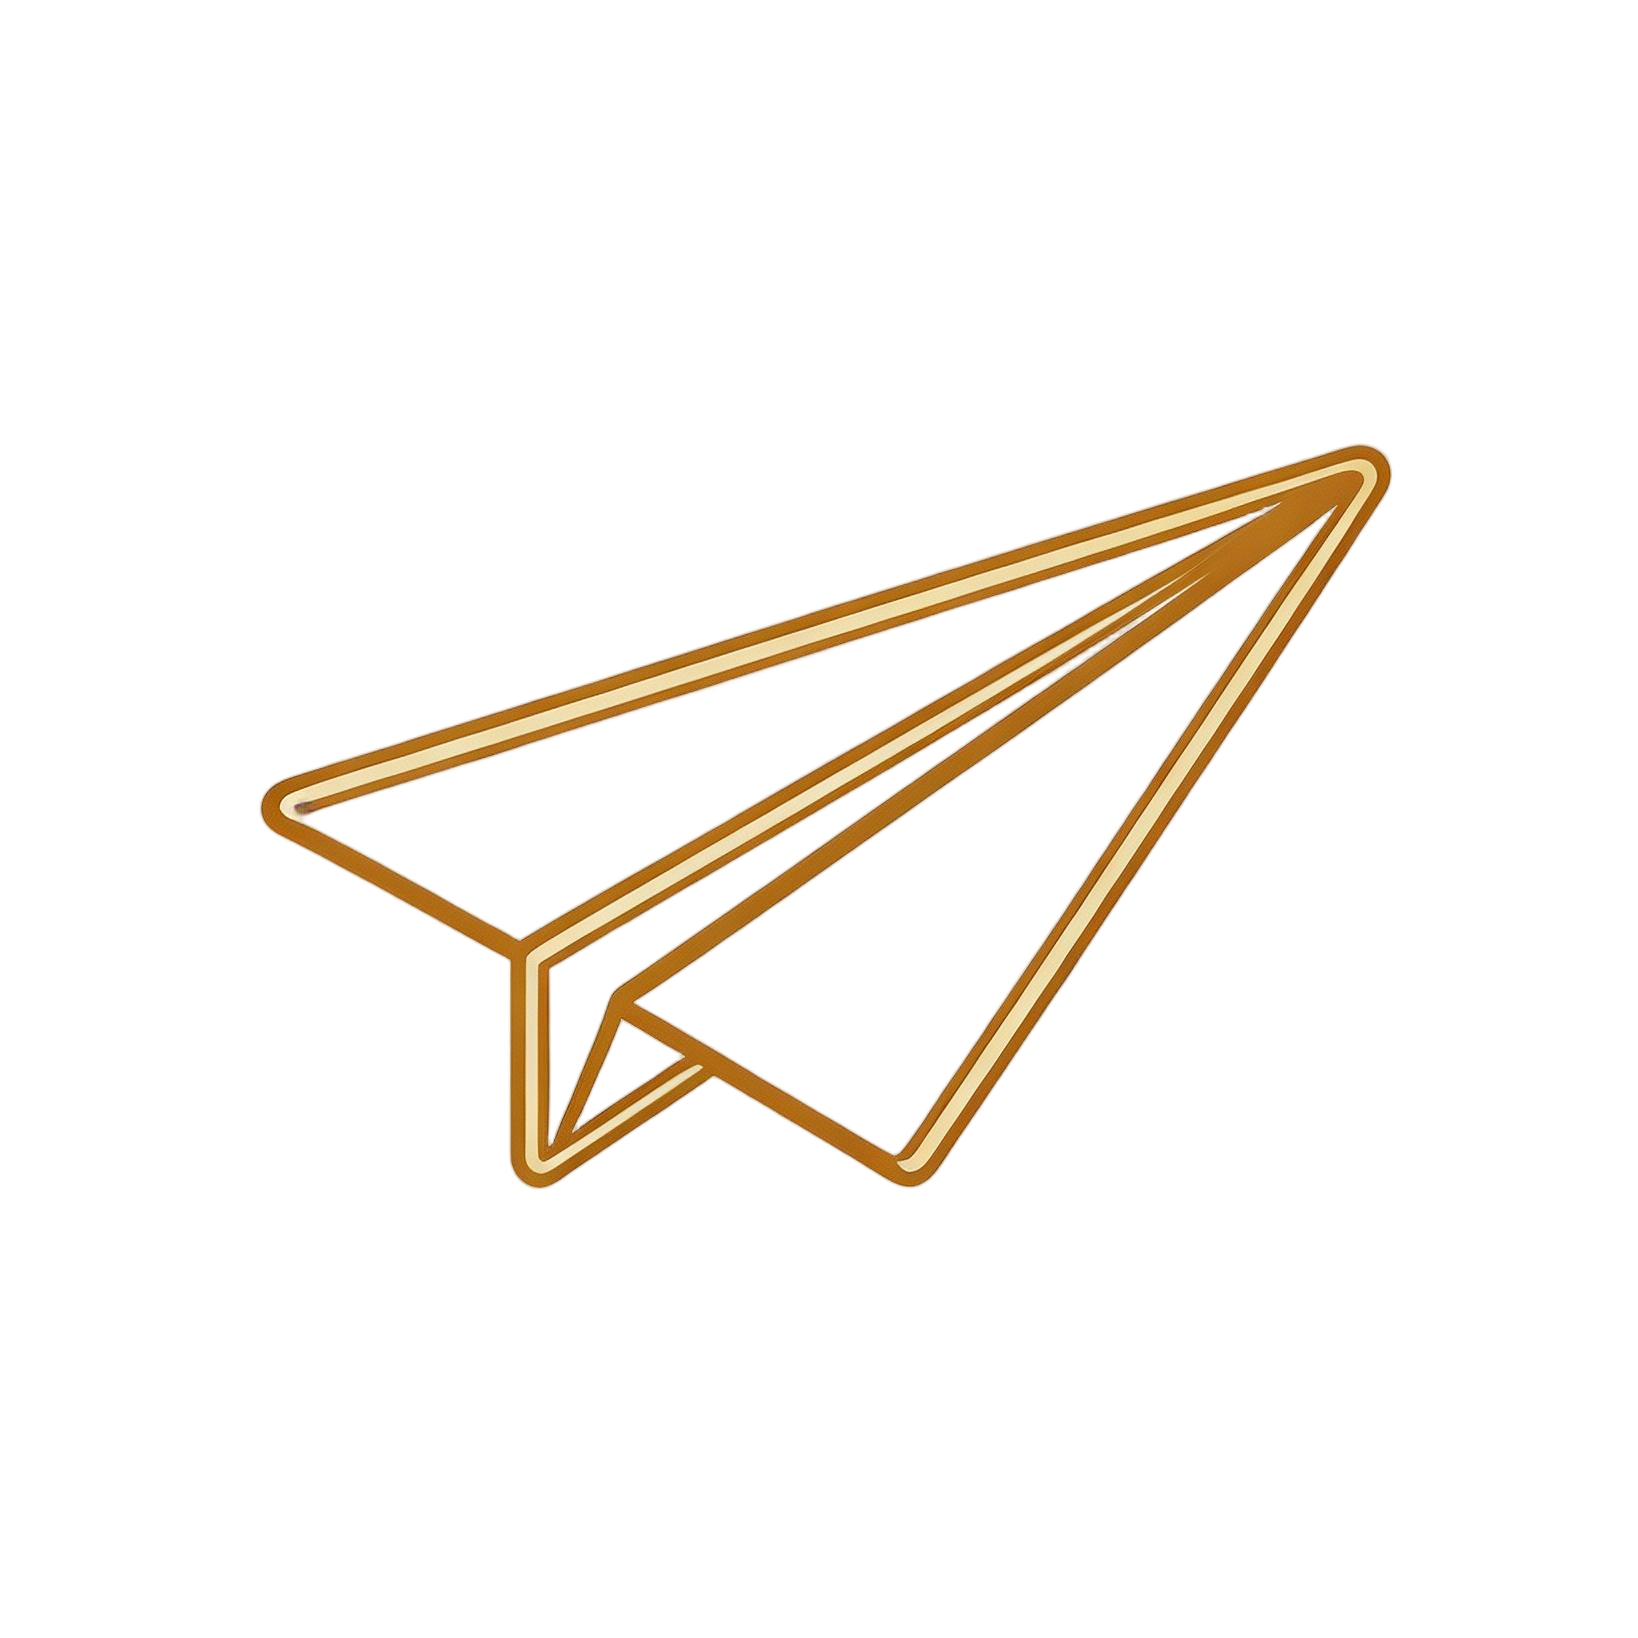
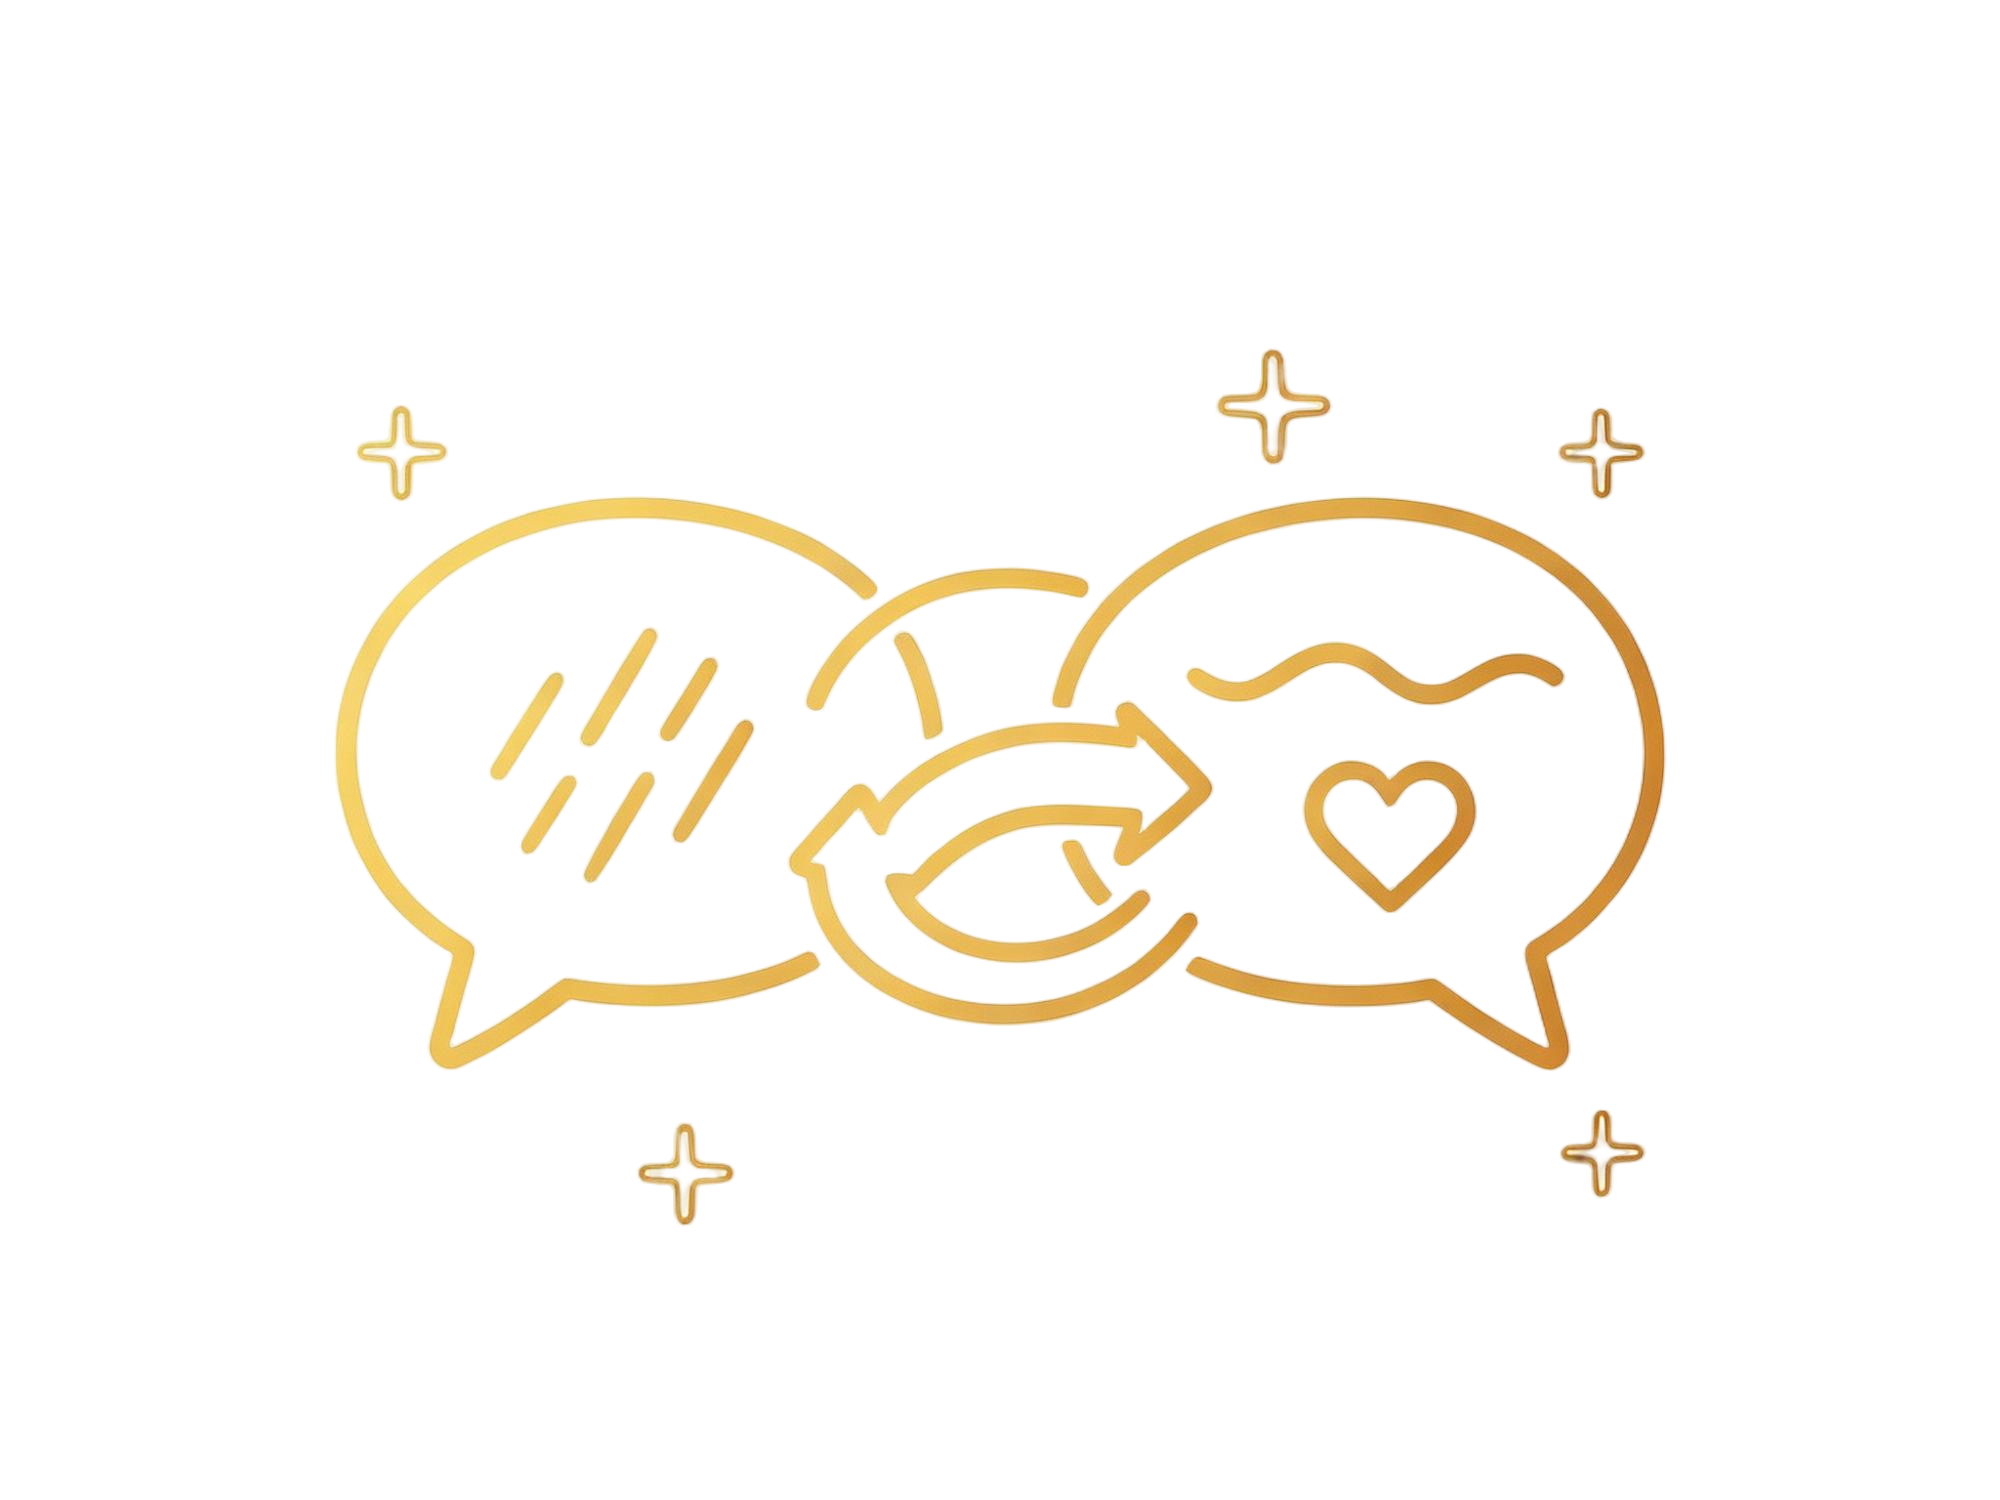
新图标全覆盖+6格去阴影+关系花园暖底区分+手机号注册+登录花园图标

diff --git a/src/style.css b/src/style.css
@@ -300,7 +300,7 @@ textarea:focus{outline:none;border-color:var(--gold);background:#fff;box-shadow:
 
 /* 收获卡片网格 */
 .benefit-grid{display:grid;grid-template-columns:1fr 1fr;gap:14px}
-.benefit-card{background:rgba(255,250,242,.65);backdrop-filter:blur(8px);-webkit-backdrop-filter:blur(8px);border-radius:22px;padding:22px 18px;text-align:left;border:1px solid rgba(255,255,255,.5);box-shadow:0 12px 40px rgba(180,120,60,.1);animation:cardFloat 5s ease-in-out infinite}
+.benefit-card{background:rgba(255,250,242,.65);backdrop-filter:blur(8px);-webkit-backdrop-filter:blur(8px);border-radius:22px;padding:22px 18px;text-align:left;border:1px solid rgba(255,255,255,.5);animation:cardFloat 5s ease-in-out infinite}
 .benefit-card:nth-child(1){animation-delay:0s}
 .benefit-card:nth-child(2){animation-delay:.8s}
 .benefit-card:nth-child(3){animation-delay:1.6s}
@@ -312,7 +312,7 @@ textarea:focus{outline:none;border-color:var(--gold);background:#fff;box-shadow:
 @keyframes cardFloat{0%,100%{transform:translateY(0)}50%{transform:translateY(-6px)}}
 
 /* 成长轨迹卡片 */
-.growth-card{background:rgba(255,250,242,.65);backdrop-filter:blur(8px);-webkit-backdrop-filter:blur(8px);border-radius:14px;padding:24px;text-align:left;border:1px solid rgba(255,255,255,.5);box-shadow:0 12px 40px rgba(180,120,60,.1)}
+.growth-card{background:rgba(255,245,235,.7);border-radius:18px;padding:24px;text-align:left;border:1px solid rgba(200,160,120,.15)}
 .growth-card>p{font-size:14px;color:#5C4535;line-height:1.75;margin-bottom:18px}
 .growth-card>p strong{color:#8B5E3C;font-weight:500}
 .growth-features{display:flex;flex-direction:column;gap:12px}
@@ -342,6 +342,9 @@ textarea:focus{outline:none;border-color:var(--gold);background:#fff;box-shadow:
 .form-field label{display:block;font-size:13px;color:#8B6A4A;margin-bottom:6px;font-weight:500}
 .form-field input{width:100%;padding:14px 16px;border:1px solid rgba(180,140,110,.3);border-radius:12px;font-size:15px;background:rgba(255,255,255,.7);color:#4A3525;font-family:inherit}
 .form-field input:focus{outline:none;border-color:#C4915A;box-shadow:0 0 0 3px rgba(196,145,90,.12)}
+.form-row{display:flex;gap:10px;align-items:center}
+.btn-code{flex-shrink:0;padding:14px 16px;background:rgba(196,145,90,.12);border:1px solid rgba(196,145,90,.25);border-radius:12px;color:#B57A45;font-size:13px;font-weight:500;cursor:pointer;white-space:nowrap;font-family:inherit}
+.account-icon{display:block;margin:0 auto 12px}
 .account-form .btn-signup{width:100%;margin-top:8px}
 .account-form .signup-link{text-align:center}
 
